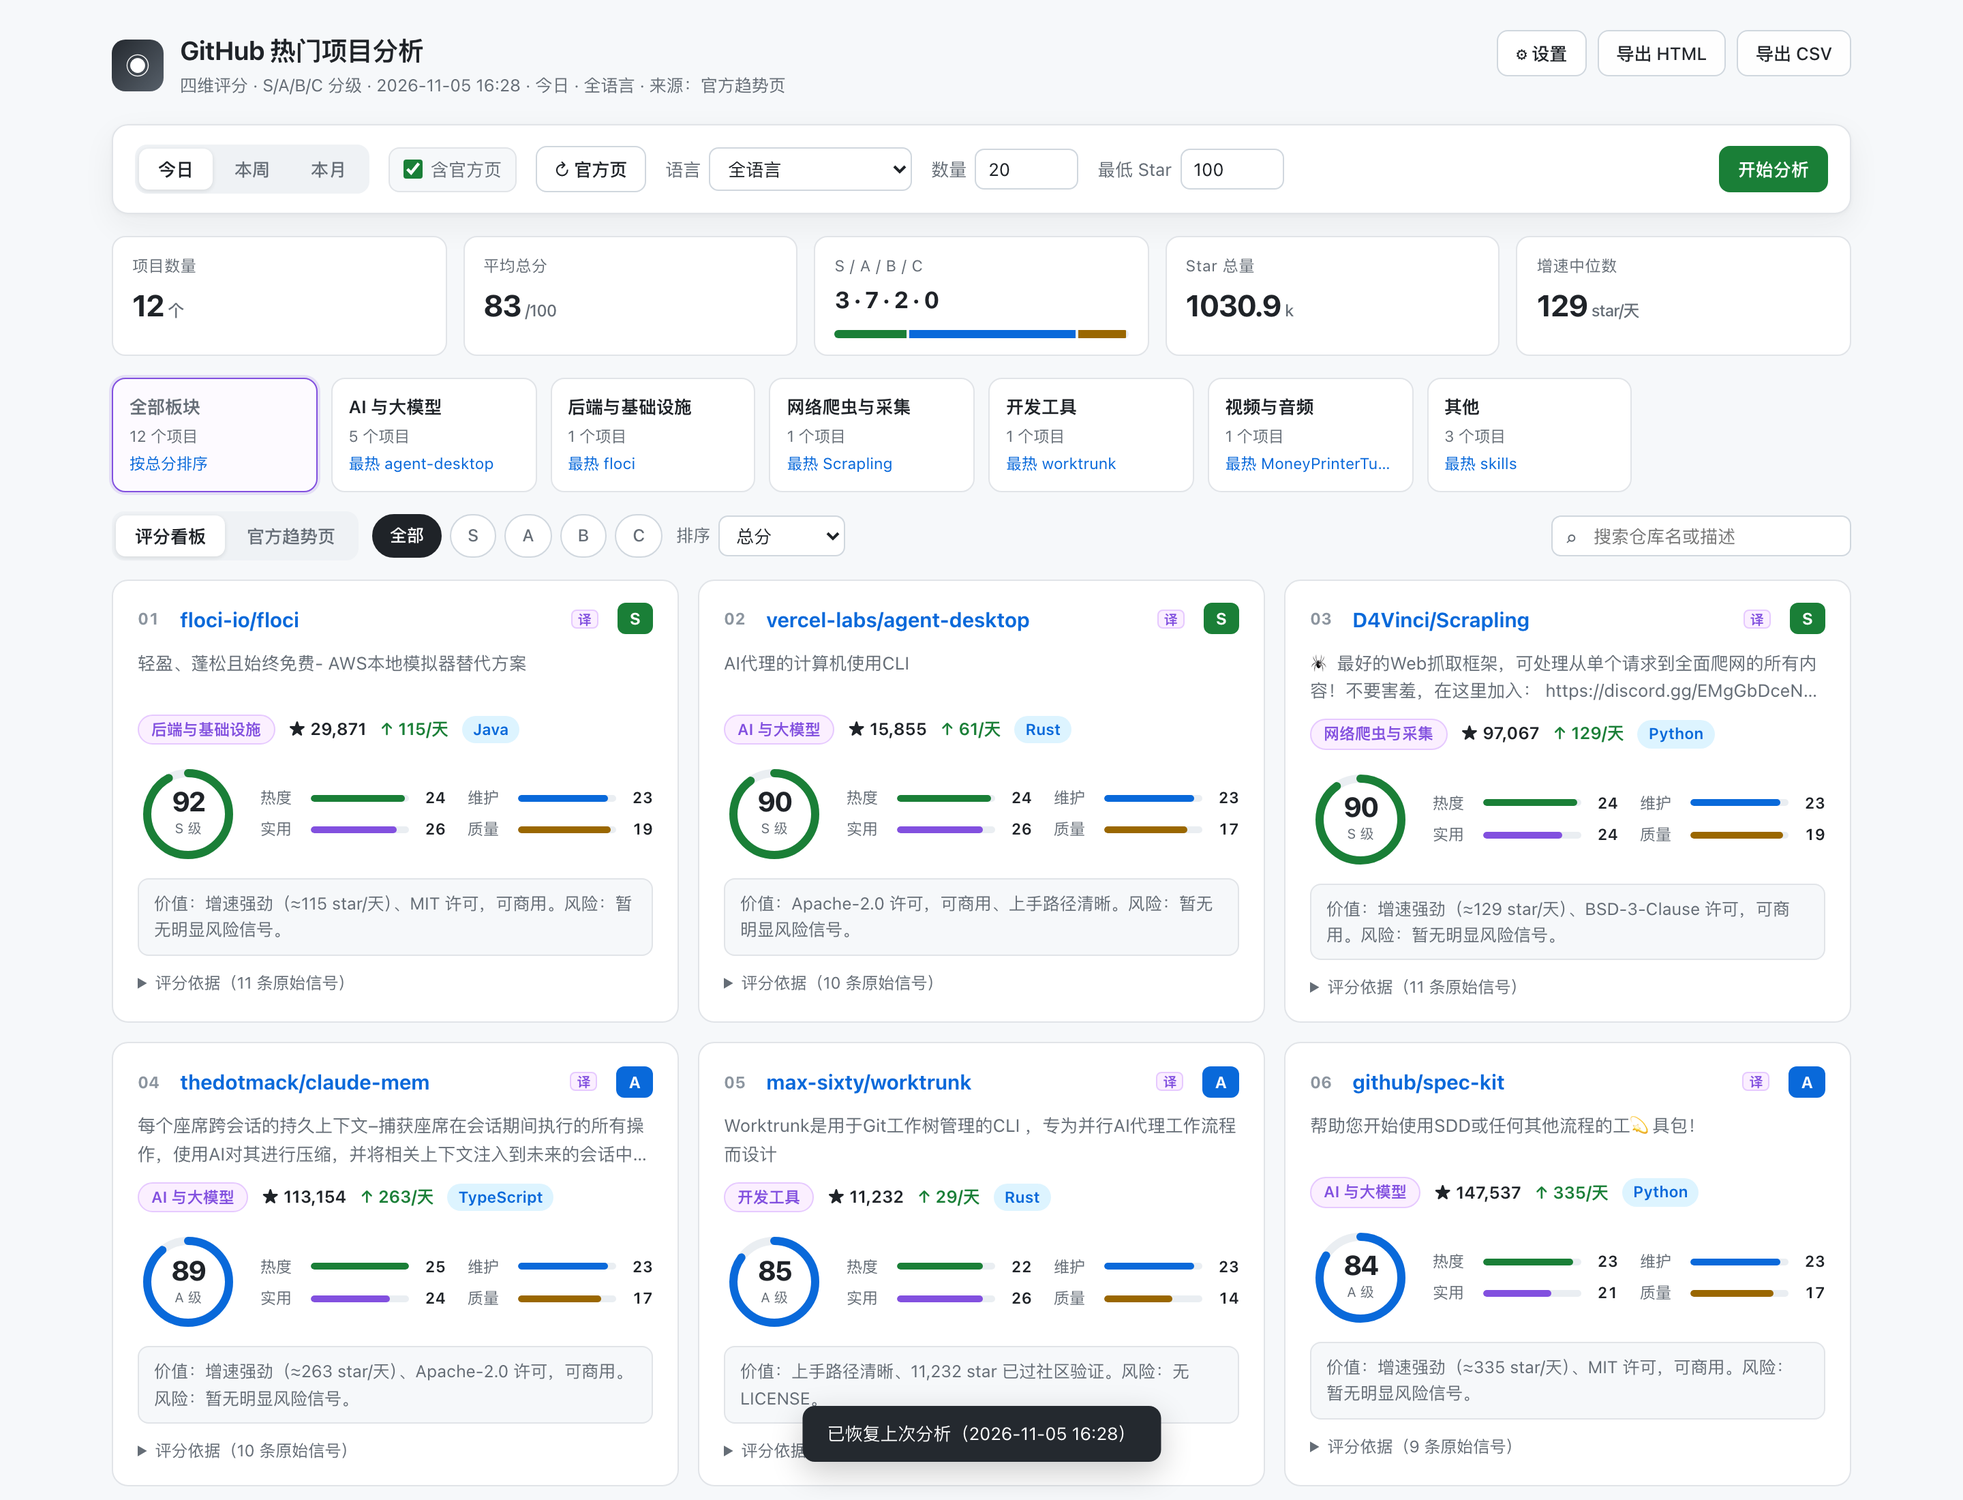
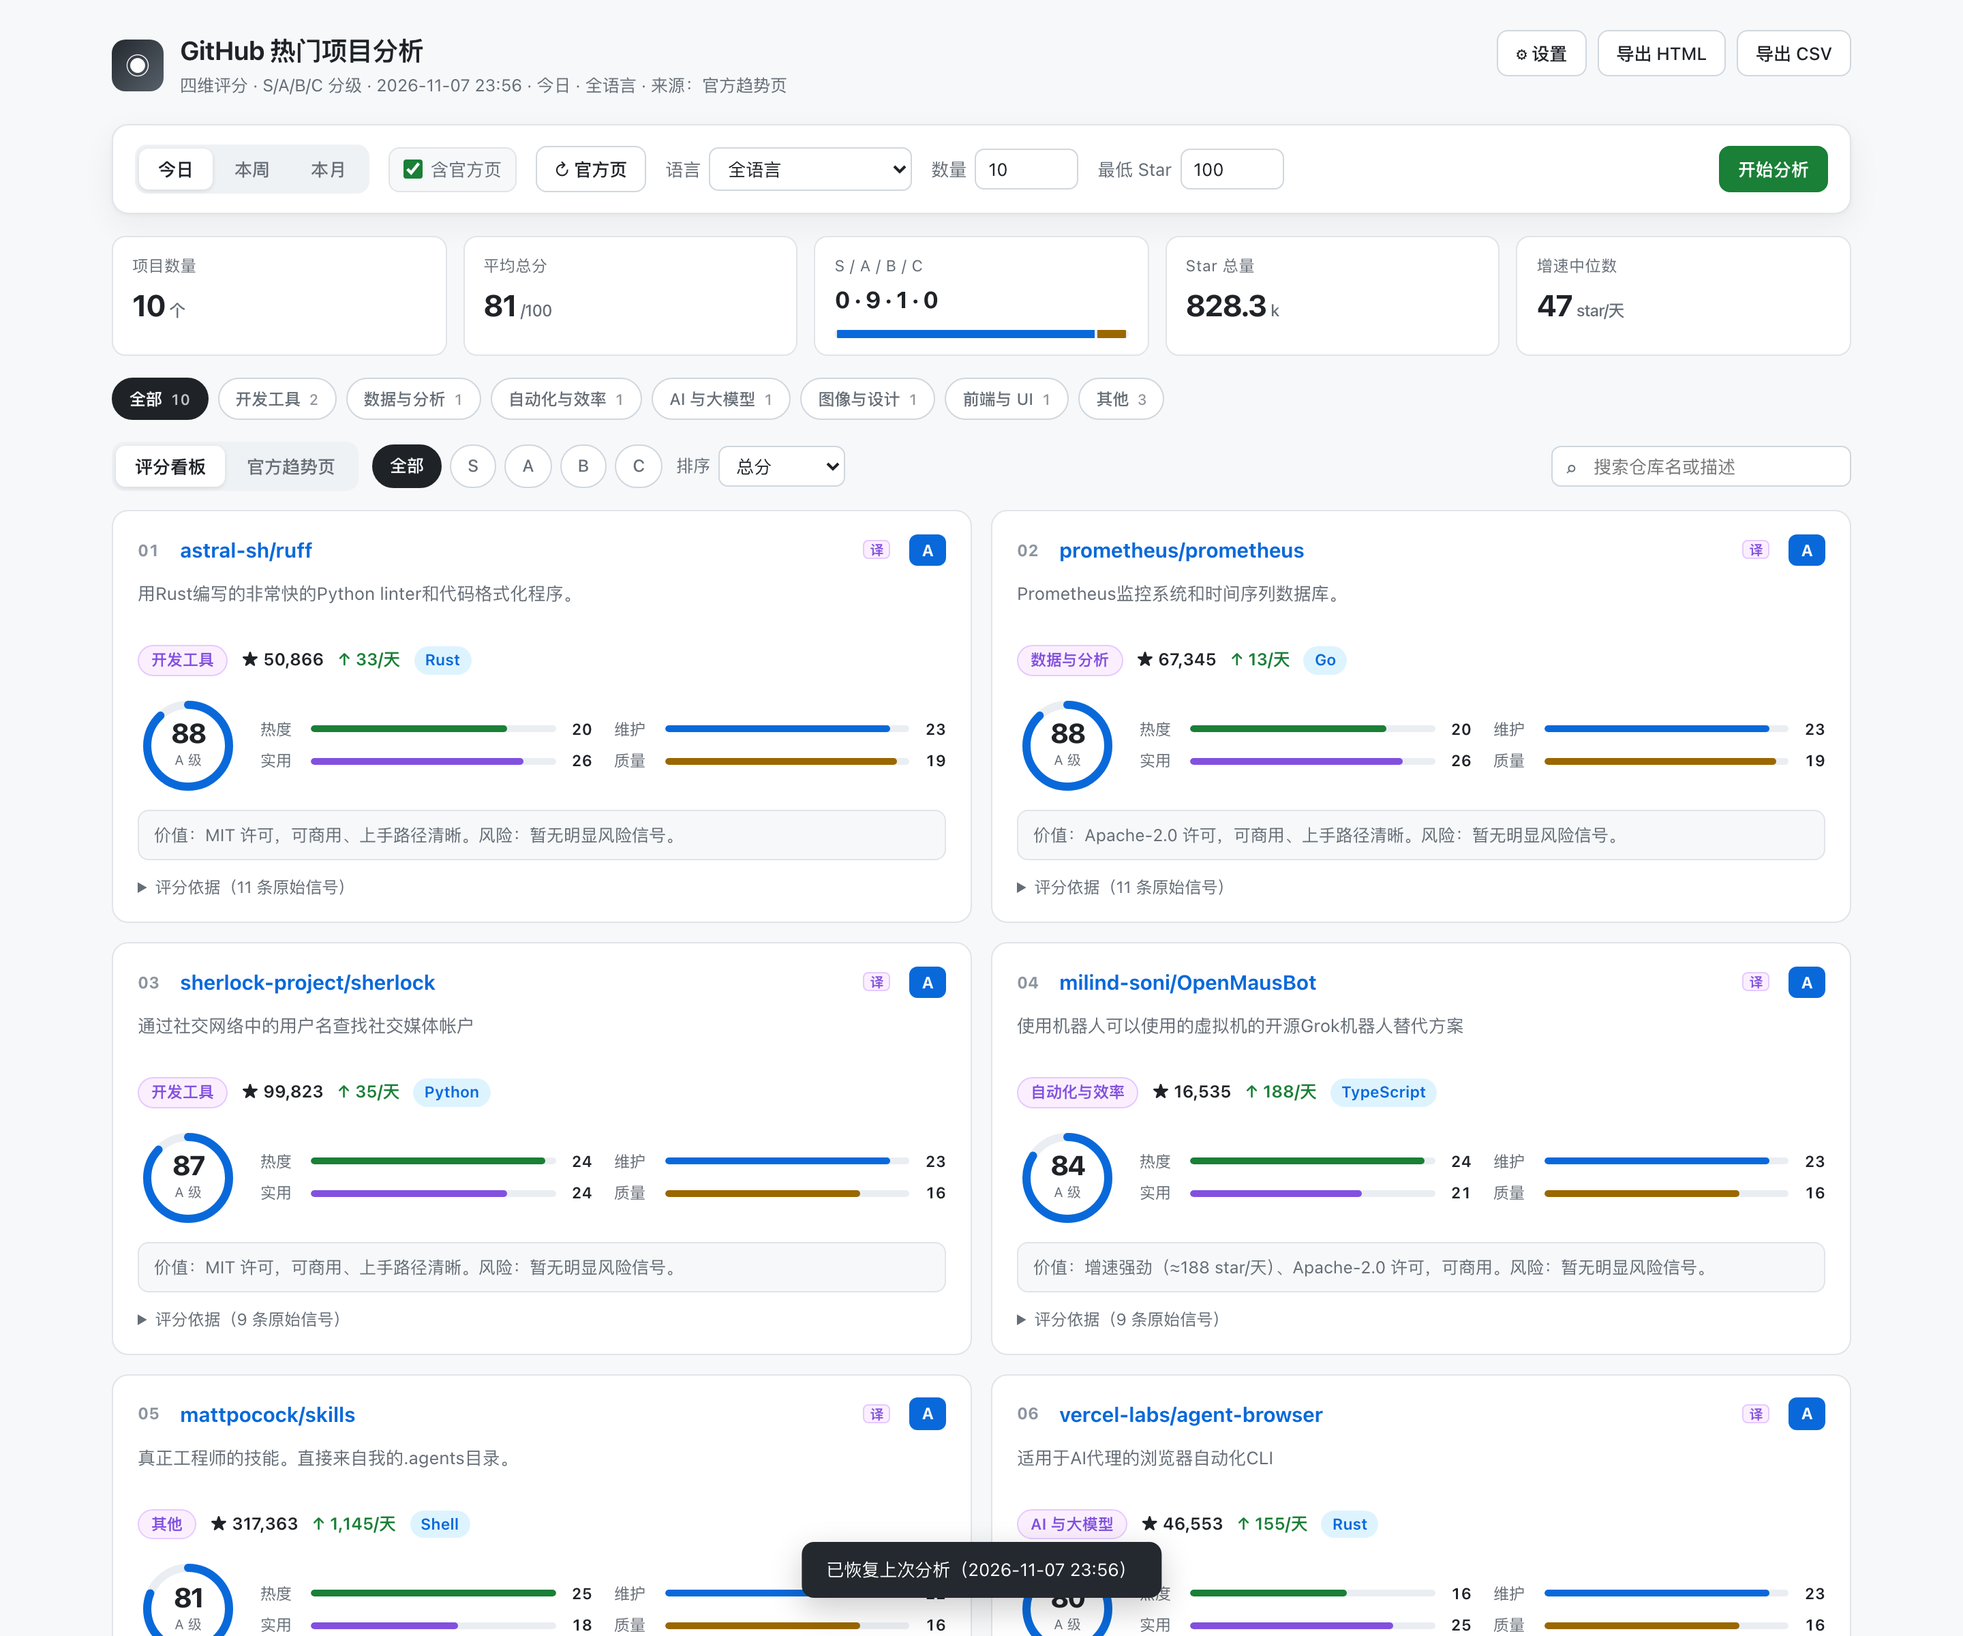
feat(app): 展示收敛为前 10 条 + 2 列排版 + 分类按钮共用单行胶囊
- 评分看板与官方趋势页均只展示前 10 条，网格固定 2 列（5 行 × 2，消除末行落单）
- 数量默认值 20 → 10，上限收至 10；后端三处默认条数同步
- 分类筛选按钮抽为共用函数 renderSectors，官方趋势页复用同一套（保留原始名次）
- 分类按钮由三行大卡片改为单行小胶囊，一行排开、溢出横向滚动
- app/README.md 同步数量默认值、视图切换与分类筛选说明
- 预览图更新为 2 列 10 条布局
- 发布前完成脱敏（本机浏览器→本地浏览器、本机网络下→部分网络环境、无个人路径）

diff --git a/app/templates/index.html b/app/templates/index.html
@@ -63,16 +63,16 @@
   .gradebar{display:flex;gap:2px;height:6px;border-radius:99px;overflow:hidden;margin-top:8px;background:var(--track)}
   .gradebar i{display:block;height:100%}
 
-  /* ---------- 热门板块 ---------- */
-  .sectors{display:grid;grid-template-columns:repeat(auto-fill,minmax(136px,1fr));gap:10px;margin-bottom:14px}
-  .sector{background:var(--card);border:1px solid var(--border);border-radius:10px;padding:10px 12px;
-    cursor:pointer;transition:border-color .15s,box-shadow .15s;display:flex;flex-direction:column;gap:2px}
-  .sector:hover{border-color:var(--border-strong);box-shadow:var(--shadow)}
-  .sector.on{border-color:#8250df;box-shadow:0 0 0 2px rgba(130,80,223,.15);background:#fdfaff}
-  .sector .nm{font-size:13px;font-weight:600;white-space:nowrap;overflow:hidden;text-overflow:ellipsis}
-  .sector .ct{font-size:11.5px;color:var(--muted)}
-  .sector .top{font-size:11.5px;color:var(--accent);white-space:nowrap;overflow:hidden;text-overflow:ellipsis}
-  .sector.all .nm{color:var(--muted)}
+  /* ---------- 分类筛选（看板与官方页共用，单行小按钮） ---------- */
+  .sectors{display:flex;flex-wrap:nowrap;gap:7px;margin-bottom:14px;overflow-x:auto;padding-bottom:2px}
+  .sector{flex:none;display:inline-flex;align-items:center;gap:6px;white-space:nowrap;
+    background:var(--card);border:1px solid var(--border-strong);border-radius:99px;
+    padding:5px 12px;font-size:12px;font-weight:500;color:var(--muted);cursor:pointer;
+    transition:background .15s,border-color .15s,color .15s}
+  .sector:hover{background:#f3f4f6}
+  .sector.on{background:var(--text);border-color:var(--text);color:#fff}
+  .sector .ct{font-size:11px;opacity:.72;font-variant-numeric:tabular-nums}
+  .sector.all{font-weight:600}
 
   /* ---------- 官方趋势页视图 ---------- */
   .official-head{display:flex;justify-content:space-between;align-items:flex-end;gap:12px;flex-wrap:wrap;
@@ -84,7 +84,7 @@
   .btn-link:hover{background:#f3f4f6;text-decoration:none}
   .off-actions{display:flex;gap:8px;align-items:center;flex-wrap:wrap}
   .official-note{font-size:12px;color:var(--muted);margin-bottom:12px;padding-left:2px}
-  .off-grid{display:grid;grid-template-columns:repeat(auto-fill,minmax(360px,1fr));gap:14px}
+  .off-grid{display:grid;grid-template-columns:repeat(2,minmax(0,1fr));gap:14px}
   .off-card{background:var(--card);border:1px solid var(--border);border-radius:12px;padding:16px 18px;
     display:flex;flex-direction:column;gap:10px;transition:box-shadow .15s,border-color .15s}
   .off-card:hover{box-shadow:var(--shadow);border-color:var(--border-strong)}
@@ -111,7 +111,7 @@
   .search::before{content:"⌕";position:absolute;left:10px;top:4px;color:var(--muted);font-size:15px}
 
   /* ---------- 卡片 ---------- */
-  .grid{display:grid;grid-template-columns:repeat(auto-fill,minmax(400px,1fr));gap:14px}
+  .grid{display:grid;grid-template-columns:repeat(2,minmax(0,1fr));gap:14px}
   .card{background:var(--card);border:1px solid var(--border);border-radius:12px;padding:16px 18px;
     display:flex;flex-direction:column;gap:10px;transition:box-shadow .15s,border-color .15s}
   .card:hover{box-shadow:var(--shadow);border-color:var(--border-strong)}
@@ -216,7 +216,7 @@
         <option>Zig</option><option>Lua</option><option>Jupyter Notebook</option>
       </select>
     </label>
-    <label>数量 <input id="limit" type="number" value="20" min="3" max="50"></label>
+    <label>数量 <input id="limit" type="number" value="10" min="3" max="10"></label>
     <label>最低 Star <input id="minStars" type="number" value="100" min="0" step="50"></label>
     <div class="spacer"></div>
     <button id="btnRun" class="primary">开始分析</button>
@@ -295,7 +295,7 @@ function loadPrefs(){
     const p = JSON.parse(localStorage.getItem(LS) || '{}');
     if(p.period){ state.period = p.period; }
     if(p.language !== undefined) $('#lang').value = p.language;
-    if(p.limit) $('#limit').value = p.limit;
+    $('#limit').value = Math.min(parseInt(p.limit) || 10, 10);
     if(p.minStars !== undefined) $('#minStars').value = p.minStars;
     if(p.token) $('#token').value = p.token;
     if(p.src) $('#src').value = p.src;
@@ -337,6 +337,7 @@ $('#viewSeg').addEventListener('click', e=>{
   const b = e.target.closest('button'); if(!b) return;
   [...$('#viewSeg').children].forEach(x=>x.classList.toggle('on', x===b));
   state.view = b.dataset.v;
+  state.cat = '';              // 切换视图重置分类筛选
   savePrefs();
   render();
 });
@@ -347,7 +348,7 @@ async function refreshOfficial(btn){
   btn.disabled = true; btn.textContent = '刷新中…';
   try{
     const qs = new URLSearchParams({
-      period: state.period, language: $('#lang').value, limit: 25
+      period: state.period, language: $('#lang').value, limit: 10
     });
     const res = await fetch('/api/official/refresh?' + qs,
       {headers:{'X-GitHub-Token': $('#token').value || ''}});
@@ -434,7 +435,7 @@ async function run(){
     const body = {
       period: state.period,
       language: $('#lang').value,
-      limit: parseInt($('#limit').value) || 20,
+      limit: Math.min(parseInt($('#limit').value) || 10, 10),
       min_stars: parseInt($('#minStars').value) || 0,
       token: $('#token').value,
       source: $('#src').value,
@@ -518,7 +519,7 @@ function scoreBlockHTML(i){
 }
 
 function renderOfficial(d){
-  const items = d.official_items || [];
+  const items = (d.official_items || []).slice(0, 10);
   const panel = $('#officialPanel');
   const period = d.official_period || d.period;
   const lang = d.official_language || d.language;
@@ -537,6 +538,7 @@ function renderOfficial(d){
     </div>`;
 
   if(!items.length){
+    $('#sectors').classList.add('hidden');
     panel.innerHTML = head + `<div class="official-empty">
       <b>暂无官方榜单数据</b>
       官方页当前不可达，且本地没有可用快照。点右上角「手动刷新」重试；<br>
@@ -556,9 +558,10 @@ function renderOfficial(d){
   const mnote = (typeof d.meta_coverage === 'number' && d.meta_coverage < 60)
     ? `<div class="official-note" style="color:var(--red);background:var(--red-soft);border:1px solid #ff9a9a;
         border-radius:8px;padding:8px 12px;margin-top:-4px">仅 ${d.meta_coverage}% 项目取到仓库元数据，本轮维护与质量分偏低，评级仅供参考；多为 GitHub API 配额耗尽，可在「⚙ 设置」填入 Token 后重新分析。</div>` : '';
+  renderSectors(items);
   panel.innerHTML = head + staleNote + mnote + `
     <div class="off-grid">
-      ${items.map((i,n)=>`
+      ${items.map((i,n)=> (state.cat && (i.category || '其他') !== state.cat) ? '' : `
         <article class="off-card">
           <div class="card-top">
             <span class="rank">${String(n+1).padStart(2,'0')}</span>
@@ -580,13 +583,31 @@ function renderOfficial(d){
     </div>`;
 }
 
+/* 分类筛选按钮：看板与官方页共用同一套逻辑，紧凑单行小按钮 */
+function renderSectors(items){
+  const byCat = {};
+  items.forEach(i=>{ const k = i.category || '其他'; (byCat[k] = byCat[k] || []).push(i); });
+  const cats = Object.entries(byCat)
+    .sort((a,b)=> (a[0]==='其他') - (b[0]==='其他')   // 「其他」固定排最后
+                 || b[1].length - a[1].length);
+  $('#sectors').classList.remove('hidden');
+  $('#sectors').innerHTML =
+    `<div class="sector all${state.cat===''?' on':''}" data-cat="">
+       <span>全部</span><span class="ct">${items.length}</span>
+     </div>` +
+    cats.map(([k, arr])=> `
+      <div class="sector${state.cat===k?' on':''}" data-cat="${escapeHtml(k)}" title="${escapeHtml(k)}：${arr.length} 个项目">
+        <span>${escapeHtml(k)}</span><span class="ct">${arr.length}</span>
+      </div>`).join('');
+}
+
 function render(){
   const d = state.data; if(!d) return;
   const isOfficial = state.view === 'official';
   document.body.classList.toggle('view-official', isOfficial);
   $('#toolbar').classList.remove('hidden');
   $('#officialPanel').classList.toggle('hidden', !isOfficial);
-  ['#stats', '#sectors', '#grid'].forEach(s=> $(s).classList.toggle('hidden', isOfficial));
+  ['#stats', '#grid'].forEach(s=> $(s).classList.toggle('hidden', isOfficial));
   if(isOfficial){
     $('#empty').classList.add('hidden');
     renderOfficial(d);
@@ -602,7 +623,7 @@ function render(){
     ? ` · 仅 ${d.board_meta_coverage}% 项目取到仓库元数据，维护与质量分偏低（通常是 GitHub API 配额耗尽）` : '';
   $('#srcNote').textContent = `${d.generated_at} · ${d.period_label} · ${d.language} · 来源：${d.source_label}${rnote}${mnote}${tnote}`;
 
-  const items = d.items;
+  const items = (d.items || []).slice(0, 10);
   const cnt = {S:0,A:0,B:0,C:0}; items.forEach(i=>cnt[i.grade]++);
   const avg = Math.round(items.reduce((a,b)=>a+b.total,0)/items.length);
   const stars = items.reduce((a,b)=>a+b.stars,0);
@@ -623,27 +644,7 @@ function render(){
     <div class="stat"><div class="k">Star 总量</div><div class="v">${(stars/1000).toFixed(1)}<small>k</small></div></div>
     <div class="stat"><div class="k">增速中位数</div><div class="v">${Math.round(medV).toLocaleString()}<small>star/天</small></div></div>`;
 
-  /* 热门板块：按分类聚合本次结果，点击筛选（再点取消） */
-  const byCat = {};
-  items.forEach(i=>{ const k = i.category || '其他'; (byCat[k] = byCat[k] || []).push(i); });
-  const cats = Object.entries(byCat)
-    .map(([k, arr])=>[k, arr, arr.reduce((a,b)=> a.total >= b.total ? a : b)])
-    .sort((a,b)=> (a[0]==='其他') - (b[0]==='其他')          // 「其他」固定排最后
-                 || b[1].length - a[1].length
-                 || b[2].total - a[2].total);
-  $('#sectors').classList.remove('hidden');
-  $('#sectors').innerHTML =
-    `<div class="sector all${state.cat===''?' on':''}" data-cat="">
-       <span class="nm">全部板块</span>
-       <span class="ct">${items.length} 个项目</span>
-       <span class="top">按总分排序</span>
-     </div>` +
-    cats.map(([k, arr, top])=> `
-      <div class="sector${state.cat===k?' on':''}" data-cat="${escapeHtml(k)}" title="${escapeHtml(k)}：${arr.map(x=>x.full_name).join('、')}">
-        <span class="nm">${escapeHtml(k)}</span>
-        <span class="ct">${arr.length} 个项目</span>
-        <span class="top">最热 ${escapeHtml(top.full_name.split('/')[1])}</span>
-      </div>`).join('');
+  renderSectors(items);
 
   /* 过滤 + 排序 */
   let list = items.filter(i=> state.grade==='all' || i.grade===state.grade);

diff --git a/app/app.py b/app/app.py
@@ -69,7 +69,7 @@ def api_analyze_get():
     p = {
         "period": request.args.get("period", "daily"),
         "language": request.args.get("language", ""),
-        "limit": request.args.get("limit", 20),
+        "limit": request.args.get("limit", 10),
         "min_stars": request.args.get("min_stars", 100),
         "source": request.args.get("source", "auto"),
         "translate": request.args.get("translate", "1") != "0",
@@ -84,7 +84,7 @@ def _do_analyze(p: dict):
     if period not in core.PERIOD_DAYS:
         period = "daily"
     try:
-        limit = max(3, min(50, int(p.get("limit", 20))))
+        limit = max(3, min(50, int(p.get("limit", 10))))
         min_stars = max(0, min(100000, int(p.get("min_stars", 100))))
     except (TypeError, ValueError):
         return jsonify({"error": "数量或最低 Star 参数不是有效数字"}), 400
@@ -154,7 +154,7 @@ def official_refresh():
         res = core.refresh_official(
             period=period,
             language=request.args.get("language", "").strip(),
-            limit=max(3, min(50, int(request.args.get("limit", 25)))),
+            limit=max(3, min(50, int(request.args.get("limit", 10)))),
             token=request.headers.get("X-GitHub-Token", ""),
         )
     except Exception as e:

diff --git a/app/README.md b/app/README.md
@@ -34,14 +34,14 @@ python app.py                    # 仅起服务，浏览器打开 http://127.0.0
 |---|---|
 | 今日 / 本周 / 本月 | 时间窗口。窗口越大，候选池越宽（今日按 7 天取样、本周 28 天、本月 120 天） |
 | 语言 | 按主语言过滤，默认全语言 |
-| 数量 | 输出条数，3–50，默认 20 |
+| 数量 | 输出条数，3–10，默认 10（看板与官方趋势页均取前 10 条展示） |
 | 最低 Star | 候选门槛，默认 100。拉不到数据时先降到 30 |
 | 开始分析 | 抓取 + 打分，单次约 8–15 秒 |
 | 含官方页 | 周期按钮旁的开关（默认开）。开启时「开始分析」优先抓官方趋势页并用它评分；关闭时跳过官方页、直接用 GitHub API 推算评分，速度更快更省配额。此时官方视图仍显示上一次的缓存快照，并明确标注「本次分析未抓取官方趋势页」 |
 | ↻ 官方页 | 周期按钮旁的独立按钮，只刷新官方趋势页、复用已有评分、不重跑评分流程，点完自动切到官方视图。与官方视图右上角的「手动刷新」是同一个动作 |
-| 视图切换 | 工具条最左侧「评分看板 / 官方趋势页」。官方趋势页视图用卡片看板展示 `github.com/trending` 的原始榜单：排名、仓库、中文简介（悬停看英文原文）、语言、分类标签、总 Star、真实的「周期新增 Star」、Fork 与增速条；并叠加**与评分看板完全相同**的四维评分与分类 |
+| 视图切换 | 工具条最左侧「评分看板 / 官方趋势页」。官方趋势页视图用卡片看板展示 `github.com/trending` 的原始榜单：排名、仓库、中文简介（悬停看英文原文）、语言、分类标签、总 Star、真实的「周期新增 Star」、Fork 与增速条；并叠加**与评分看板完全相同**的四维评分与分类。两个视图共用顶部同一排分类筛选按钮，点击可按分类只看对应项目、再点取消 |
 | 手动刷新 | 官方趋势页视图右上角的独立按钮，只刷新官方榜单，不重跑评分流程、不改动评分卡片；强制绕过熔断。已评分项目按仓库名复用分数，只给新出现的条目补算 |
-| 热门板块 | 评分看板的统计卡下方一排板块卡片，按本次结果的分类聚合，显示项目数与最热项目；点击筛选、再点取消「其他」固定排最后 |
+| 分类筛选 | 评分看板与官方趋势页**共用**顶部一行小胶囊按钮，按本次结果的分类聚合；点击只看该分类、再点取消，「全部」恢复全部。「其他」固定排最后 |
 | 评级 chips | 只看 S / A / B / C |
 | 排序 | 总分 / Star 增速 / 总 Star / 最近提交 |
 | 搜索 | 按仓库名或描述过滤 |
